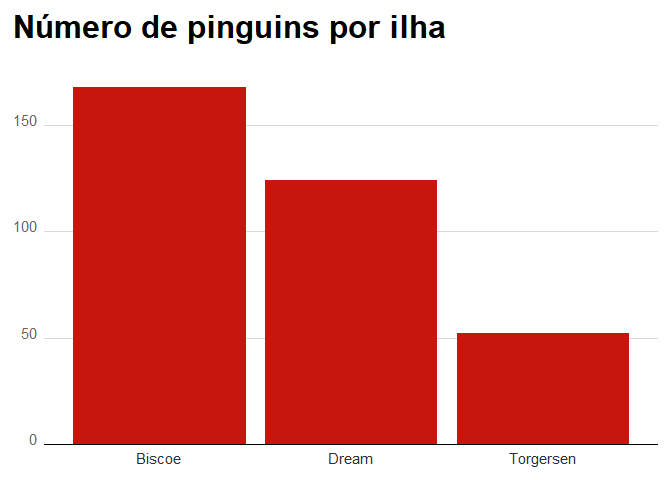
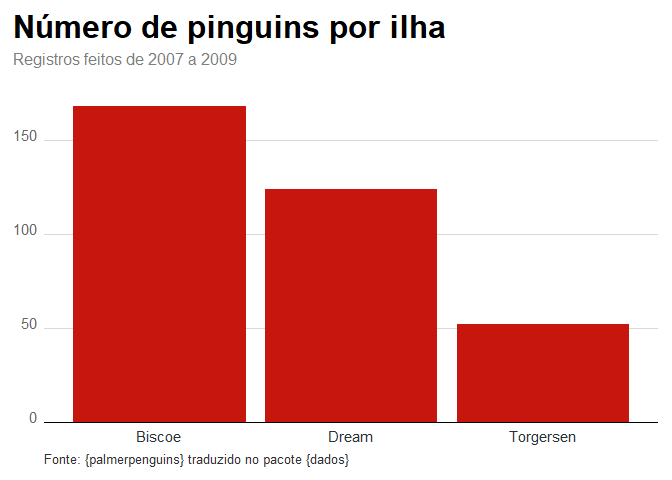
readme - subtitulo e legenda

diff --git a/README.md b/README.md
@@ -41,7 +41,9 @@ library("ggimprensa")
 p1 <- ggplot(pinguins_grupos, aes(x = ilha, y = n)) +
   geom_col(fill = "#fd541e")+
   labs(
-    title = "Número de pinguins por ilha"
+    title = "Número de pinguins por ilha",
+    subtitle = "Registros feitos de 2007 a 2009",
+    caption = "Fonte: {palmerpenguins} traduzido no pacote {dados}"
   )+
   tema_poder360()
 p1
@@ -64,7 +66,9 @@ linha_poder360(p1)
 p2 <- ggplot(pinguins_grupos, aes(x = ilha, y = n)) +
   geom_col(fill = "#c6160d")+
   labs(
-    title = "Número de pinguins por ilha"
+    title = "Número de pinguins por ilha",
+    subtitle = "Registros feitos de 2007 a 2009",
+    caption = "Fonte: {palmerpenguins} traduzido no pacote {dados}"
   )+
   scale_y_continuous(expand = expansion(mult = c(0,0.1)))+
   tema_g1()
@@ -80,7 +84,9 @@ p2
 p3 <- ggplot(pinguins_grupos, aes(x = ilha, y = n)) +
   geom_col(fill = "#15c5ce")+
   labs(
-    title = "Número de pinguins por ilha"
+    title = "Número de pinguins por ilha",
+    subtitle = "Registros feitos de 2007 a 2009",
+    caption = "Fonte: {palmerpenguins} traduzido no pacote {dados}"
   )+
   scale_y_continuous(expand = expansion(mult = c(0,0.1)))+
   tema_nexo()
